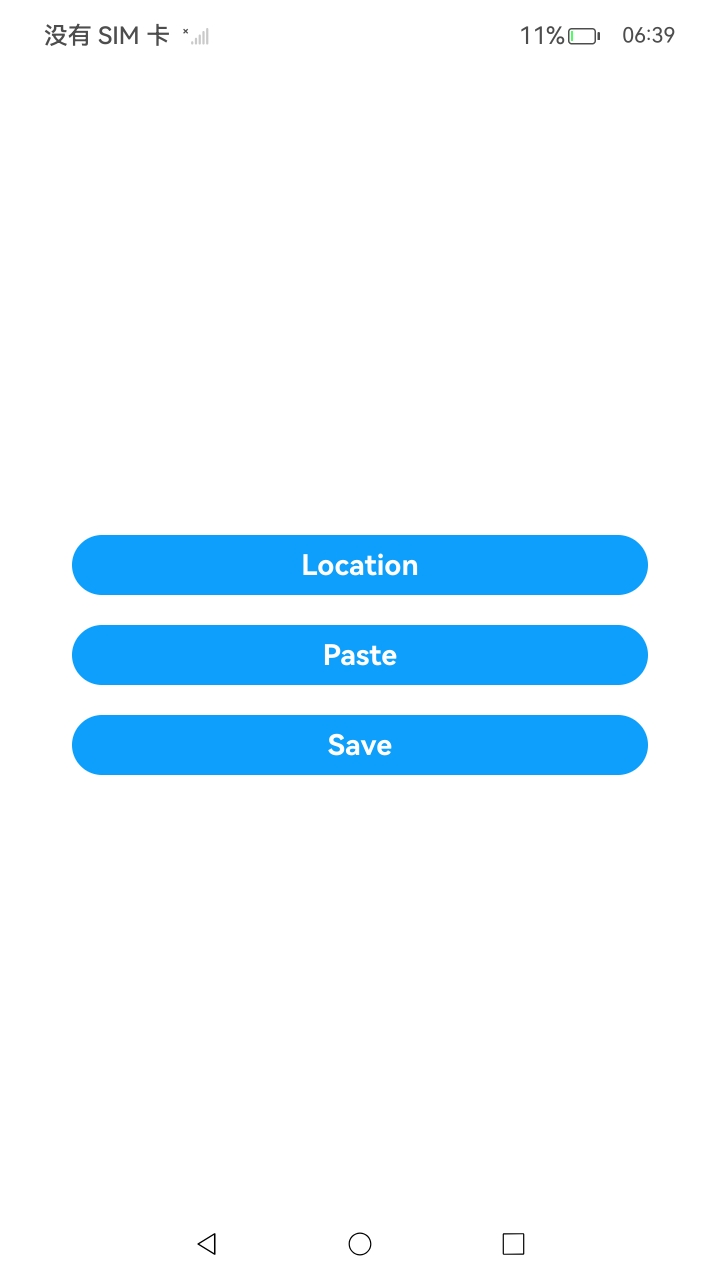
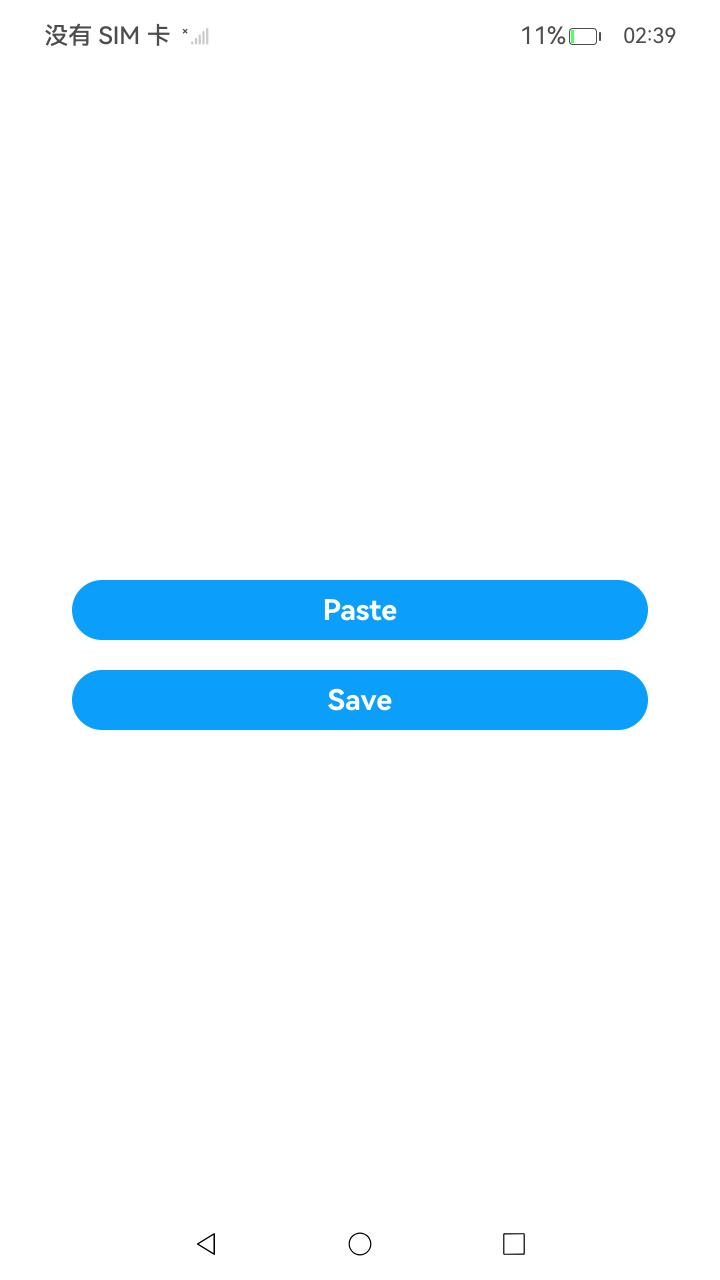
Modify sample bug

diff --git a/code/DocsSample/Security/SecurityComponent/entry/hvigorfile.ts b/code/DocsSample/Security/SecurityComponent/entry/hvigorfile.ts
@@ -17,5 +17,5 @@ import { hapTasks } from '@ohos/hvigor-ohos-plugin';
 
 export default {
   system: hapTasks, /* Built-in plugin of Hvigor. It cannot be modified. */
-  plugins: []         /* Custom plugin to extend the functionality of Hvigor. */
+  plugins: []       /* Custom plugin to extend the functionality of Hvigor. */
 }

diff --git a/code/DocsSample/Security/SecurityComponent/hvigorfile.ts b/code/DocsSample/Security/SecurityComponent/hvigorfile.ts
@@ -17,5 +17,5 @@ import { appTasks } from '@ohos/hvigor-ohos-plugin';
 
 export default {
   system: appTasks, /* Built-in plugin of Hvigor. It cannot be modified. */
-  plugins: []         /* Custom plugin to extend the functionality of Hvigor. */
+  plugins: []       /* Custom plugin to extend the functionality of Hvigor. */
 }

diff --git a/code/DocsSample/Security/SecurityComponent/README_zh.md b/code/DocsSample/Security/SecurityComponent/README_zh.md
@@ -1,0 +1,74 @@
+# 安全控件类型的UI控件
+
+### 介绍
+
+本示例提供了安全控件类型的UI控件，支撑应用开发者集成安全控件做临时授权场景，当用户实际点击了某种类型的安全控件时，会对应用进行相应的临时授权，减少权限弹窗对用户的干扰，同时提供更小的授权范围。
+
+### 效果预览
+
+|                 主页                  |                  Paste                  |                **Save**                |
+|:-----------------------------------:|:---------------------------------------:| :------------------------------------: |
+|   ![main](screenshots/main.jpeg)    |    ![paste](screenshots/paste.jpeg)     | ![save](screenshots/save.jpeg) |
+
+使用说明
+1. 在主界面，点击“Paste”按钮，进入“Paste”界面，在文本输入框输入文字，全选剪切文字，点击“粘贴”按钮，获取剪贴板内容并显示在输入框中。
+
+2. 在主界面，点击“Save”按钮，进入“Save”界面，点击“下载”按钮，将当前页面中的图片保存到本地的图库中。
+
+### 工程目录
+
+```
+SecurityComponent
+├──entry/src/main
+│  ├──ets                                    
+│  │  ├──entryability
+│  │  │  └──EntryAbility.ets                        // 程序入口类
+|  |  ├──pages                                      // 页面文件
+│  │  │  └──Index.ets                               // 首页
+│  │  └──securitycomponent                          // 组件文件
+│  │     └──page  
+│  │        ├──Paste.ets                            // 剪贴板安全控件界面
+│  │        └──Save.ets                             // 媒体库安全控件界面
+|  ├──resources                                     // 资源文件目录
+│  │
+
+```
+
+### 具体实现
+
+* 本示例分为剪贴板安全控件模块，媒体库安全控件模块。
+
+  * 剪贴板安全控件模块
+
+    * 使用PasteButton组件开发获取剪贴板信息功能，在其点击回调onclick事件中调用pasteboard.getSystemPasteboard().getData()将文本复制到剪贴板中，使用pasteData.getPrimaryText()得到剪贴板内容。
+    * 接口参考：[@ohos.pasteboard](https://gitcode.com/openharmony/docs/blob/master/zh-cn/application-dev/reference/apis-basic-services-kit/js-apis-pasteboard.md)
+  * 媒体库安全控件模块
+  
+    * 使用SaveButton组件开发保存图片到媒体库功能，在其点击回调onclick事件中调用photoAccessHelper.getPhotoAccessHelper()得到媒体库图片管理器helper， helper.createAsset()得到保存到媒体库图片的uri，使用resourceManager.getMediaContent()得到存放在Resources/base/media文件下的test.jpg图片内容，调用fs.open()和fs.write()将图片内容通过得到的uri写到媒体库中，最后fs.close()关闭文件。
+    * 接口参考：[@ohos.file.photoAccessHelper](https://gitcode.com/openharmony/docs/blob/master/zh-cn/application-dev/reference/apis-media-library-kit/js-apis-photoAccessHelper.md)，[@ohos.file.fs](https://gitcode.com/openharmony/docs/blob/master/zh-cn/application-dev/reference/apis-core-file-kit/js-apis-file-fs.md)
+
+### 相关权限
+
+不涉及。
+
+### 依赖
+
+不涉及。
+
+### 约束与限制
+
+1. 本示例仅支持标准系统上运行，支持设备：RK3568，GPS定位功能仅支持部分机型。
+2. 本示例为Stage模型，支持API20版本SDK，版本号：（6.0.0.38）。
+3. 本示例已支持使DevEco Studio 6.0.0 Release(构建版本：6.0.0.868)编译运行。
+
+### 下载
+
+如需单独下载本工程，执行如下命令：
+
+```
+git init
+git config core.sparsecheckout true
+echo code/DocsSample/Security/SecurityComponent/ > .git/info/sparse-checkout
+git remote add origin https://gitcode.com/openharmony/applications_app_samples.git
+git pull origin master
+```

diff --git a/code/DocsSample/Security/SecurityComponent/ohosTest.md b/code/DocsSample/Security/SecurityComponent/ohosTest.md
@@ -5,7 +5,6 @@
 | 测试功能       | 预置条件                                                     | 输入               | 预期输出                     | 是否自动 | 测试结果 |
 | -------------- | ------------------------------------------------------------ | ------------------ | ---------------------------- | -------- | -------- |
 | 拉起应用       | 设备正常运行                                                 |                    | 成功拉起应用                 | 是       | Pass     |
-| 获取定位信息   | 成功拉起应用，点击”Location“按钮后，成功进入“Location”界面   | 点击“当前位置”按钮 | 提示框显示获取位置信息失败   | 是       | Pass     |
 | 剪切输入框内容 | 成功拉起应用，点击”Paste“按钮后，成功进入“Paste”界面,拉起输入法，输入文本后长按输入框，点击“全选”按钮 | 点击“剪切”按钮     | 文本被剪切，输入框清除文本   | 是       | Pass     |
 | 获取剪贴板内容 | 成功拉起应用，点击”Paste“按钮后，成功进入“Paste”界面，成功得到输入文本 | 点击“粘贴”按钮     | 剪切的文本信息出现在文本框中 | 是       | Pass     |
 | 保存图片       | 成功拉起应用，点击”SaveButton“按钮后，成功进入“SaveButton”界面 | 点击“下载”按钮     | 弹出提示框，文件保存成功     | 是       | Pass     |
